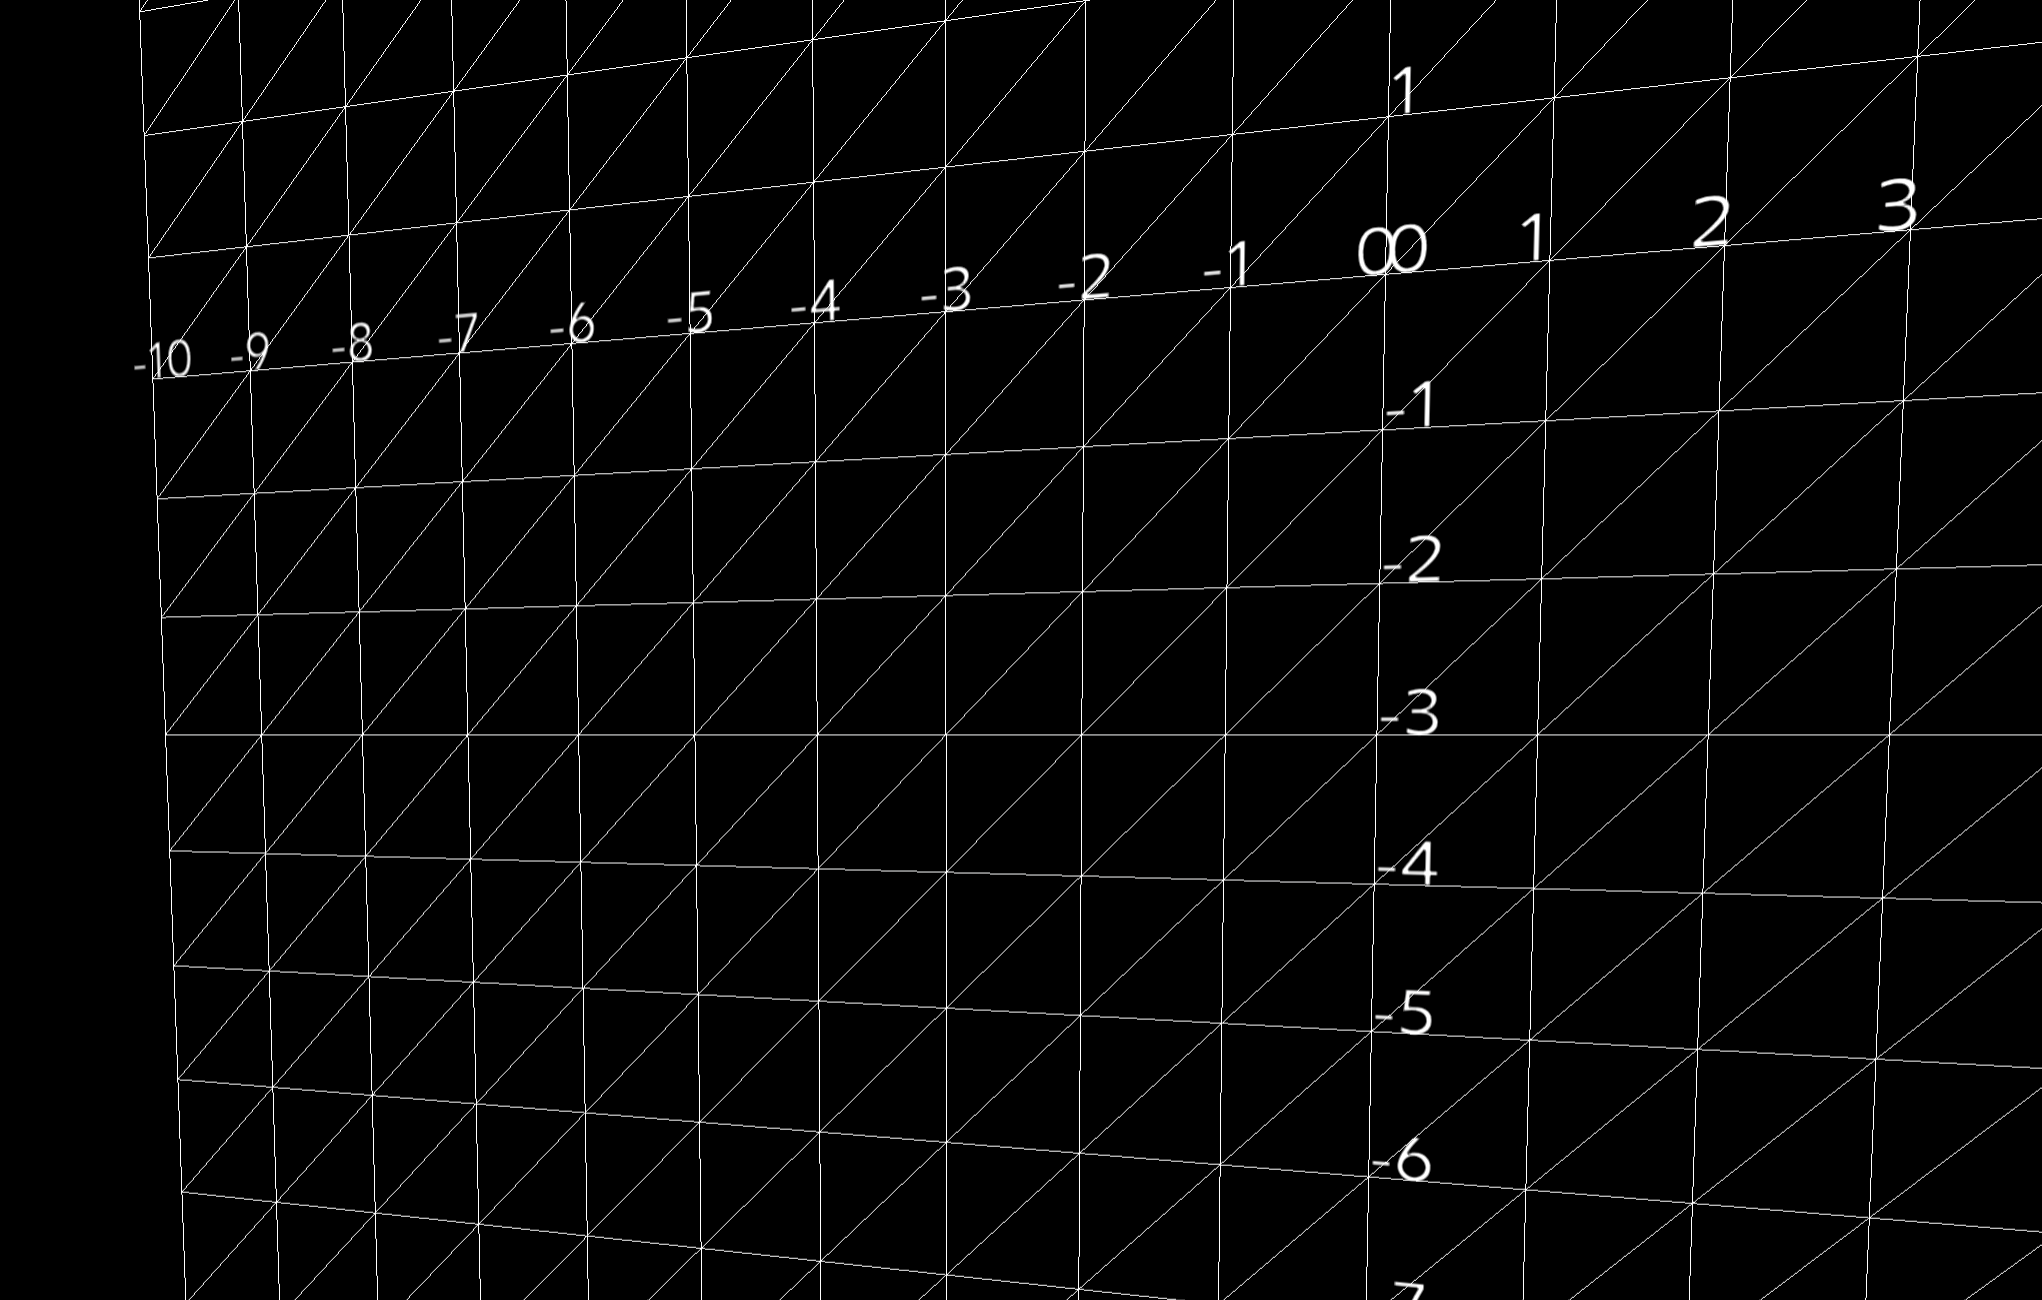
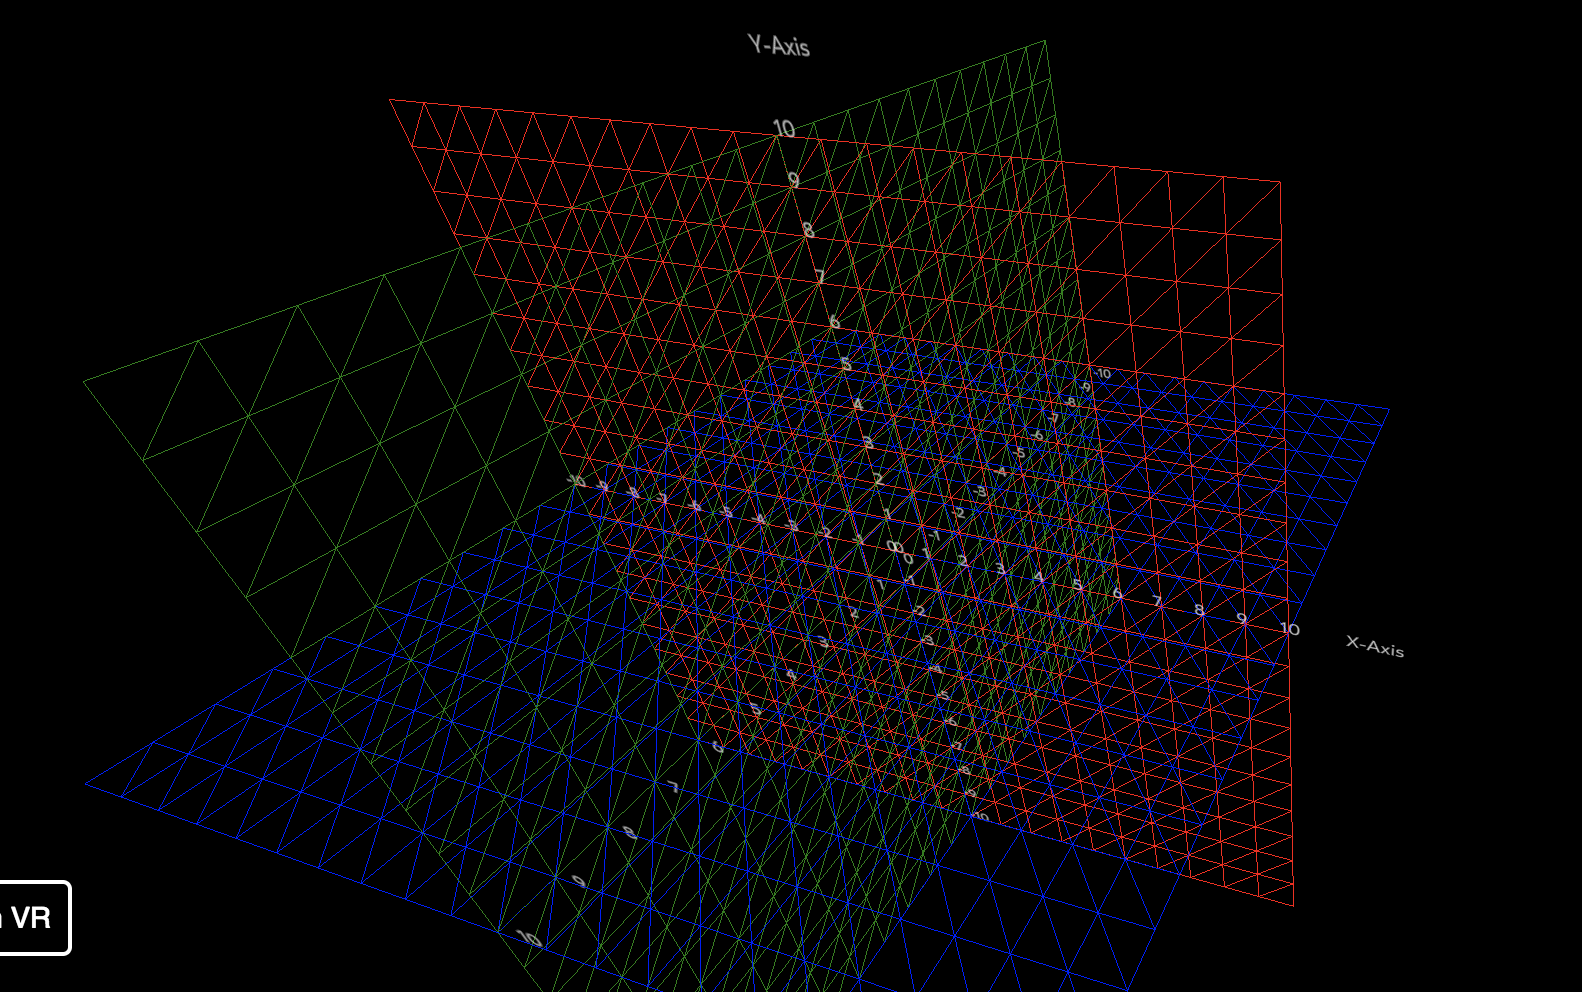
feat: multi plane support

diff --git a/src/components/MeshPlanes.js b/src/components/MeshPlanes.js
@@ -1,0 +1,140 @@
+import React from 'react';
+import PropTypes from 'prop-types';
+import { View, Plane, Text } from 'react-vr';
+
+export const MeshLine = props => {
+  const { size, y, style } = props;
+
+  return (
+    <View>
+      {[...Array(size * 2).keys()].map(x => (
+        <Plane
+          key={x}
+          wireframe={true}
+          dimWidth={1}
+          dimHeight={1}
+          style={{
+            transform: [{ translate: [size - 0.5 - x, 0.5 - y, 0] }],
+            ...style,
+          }}
+        />
+      ))}
+    </View>
+  );
+};
+
+const Txt = props => {
+  const { translate } = props;
+  return (
+    <Text
+      style={{
+        transform: [{ translate }],
+        ...styles.digit,
+      }}>
+      {props.children}
+    </Text>
+  );
+};
+
+const MeshPlane = props => {
+  const { mainSize, subSize, rotate, style } = props;
+  return (
+    <View style={{ transform: [...rotate] }}>
+      {/* mesh grid */}
+      {[...Array(subSize * 2).keys()].map(y => (
+        <MeshLine y={y - subSize + 1} size={mainSize} key={y} style={style} />
+      ))}
+    </View>
+  );
+};
+
+export const Axis = props => {
+  const { size, label, translate } = props;
+  return (
+    <View>
+      {/* digits on axis */}
+      {[...Array(size * 2 + 1).keys()].map(n => (
+        <View key={n}>
+          <Txt translate={translate(n)}>{n - size}</Txt>
+        </View>
+      ))}
+      {/* axis label */}
+      {label && <Txt translate={translate(size * 2 + 1.5)}>{label}</Txt>}
+    </View>
+  );
+};
+
+export const MeshPlanes = props => {
+  const { xSize, ySize, zSize } = props;
+  return (
+    <View>
+      {xSize &&
+        ySize && (
+          <MeshPlane
+            mainSize={xSize}
+            subSize={ySize}
+            rotate={[]}
+            style={styles.styleXY}
+          />
+        )}
+      {ySize &&
+        zSize && (
+          <MeshPlane
+            mainSize={zSize}
+            subSize={ySize}
+            rotate={[{ rotateY: 90 }]}
+            style={styles.styleYZ}
+          />
+        )}
+      {zSize &&
+        xSize && (
+          <MeshPlane
+            mainSize={xSize}
+            subSize={zSize}
+            rotate={[{ rotateX: 90 }]}
+            style={styles.styleZX}
+          />
+        )}
+      {xSize && (
+        <Axis
+          label={'X-Axis'}
+          size={xSize}
+          translate={n => [n - 0.2 - xSize, 0.5, 0]}
+        />
+      )}
+      {ySize && (
+        <Axis
+          label={'Y-Axis'}
+          size={ySize}
+          translate={n => [0, n + 0.5 - ySize, 0]}
+        />
+      )}
+      {zSize && (
+        <Axis
+          label={'Z-Axis'}
+          size={zSize}
+          translate={n => [0, 0, n - 0.2 - zSize]}
+        />
+      )}
+    </View>
+  );
+};
+
+const styles = {
+  digit: {
+    color: 'white',
+    fontSize: 0.5,
+    position: 'absolute',
+  },
+  styleXY: {
+    color: 'red',
+  },
+  styleYZ: {
+    color: 'green',
+  },
+  styleZX: {
+    color: 'blue',
+  },
+};
+
+export default MeshPlanes;

diff --git a/index.vr.js b/index.vr.js
@@ -1,12 +1,13 @@
 import React from 'react';
-import { AppRegistry, asset, Pano, Text, View } from 'react-vr';
-import MeshPlane from './src/components/MeshPlane';
+import { AppRegistry, asset, Pano, Text, View, Scene } from 'react-vr';
+import { MeshPlanes } from './src/components/MeshPlanes';
 
 export default class react_vr_meshplane extends React.Component {
   render() {
     return (
-      <View style={{ transform: [{ translate: [0, 3, -10] }] }}>
-        <MeshPlane w={10} />
+      <View>
+        <Scene style={{ transform: [{ translate: [15, 15, 15] }] }} />
+        <MeshPlanes ySize={10} xSize={10} zSize={10} />
       </View>
     );
   }
